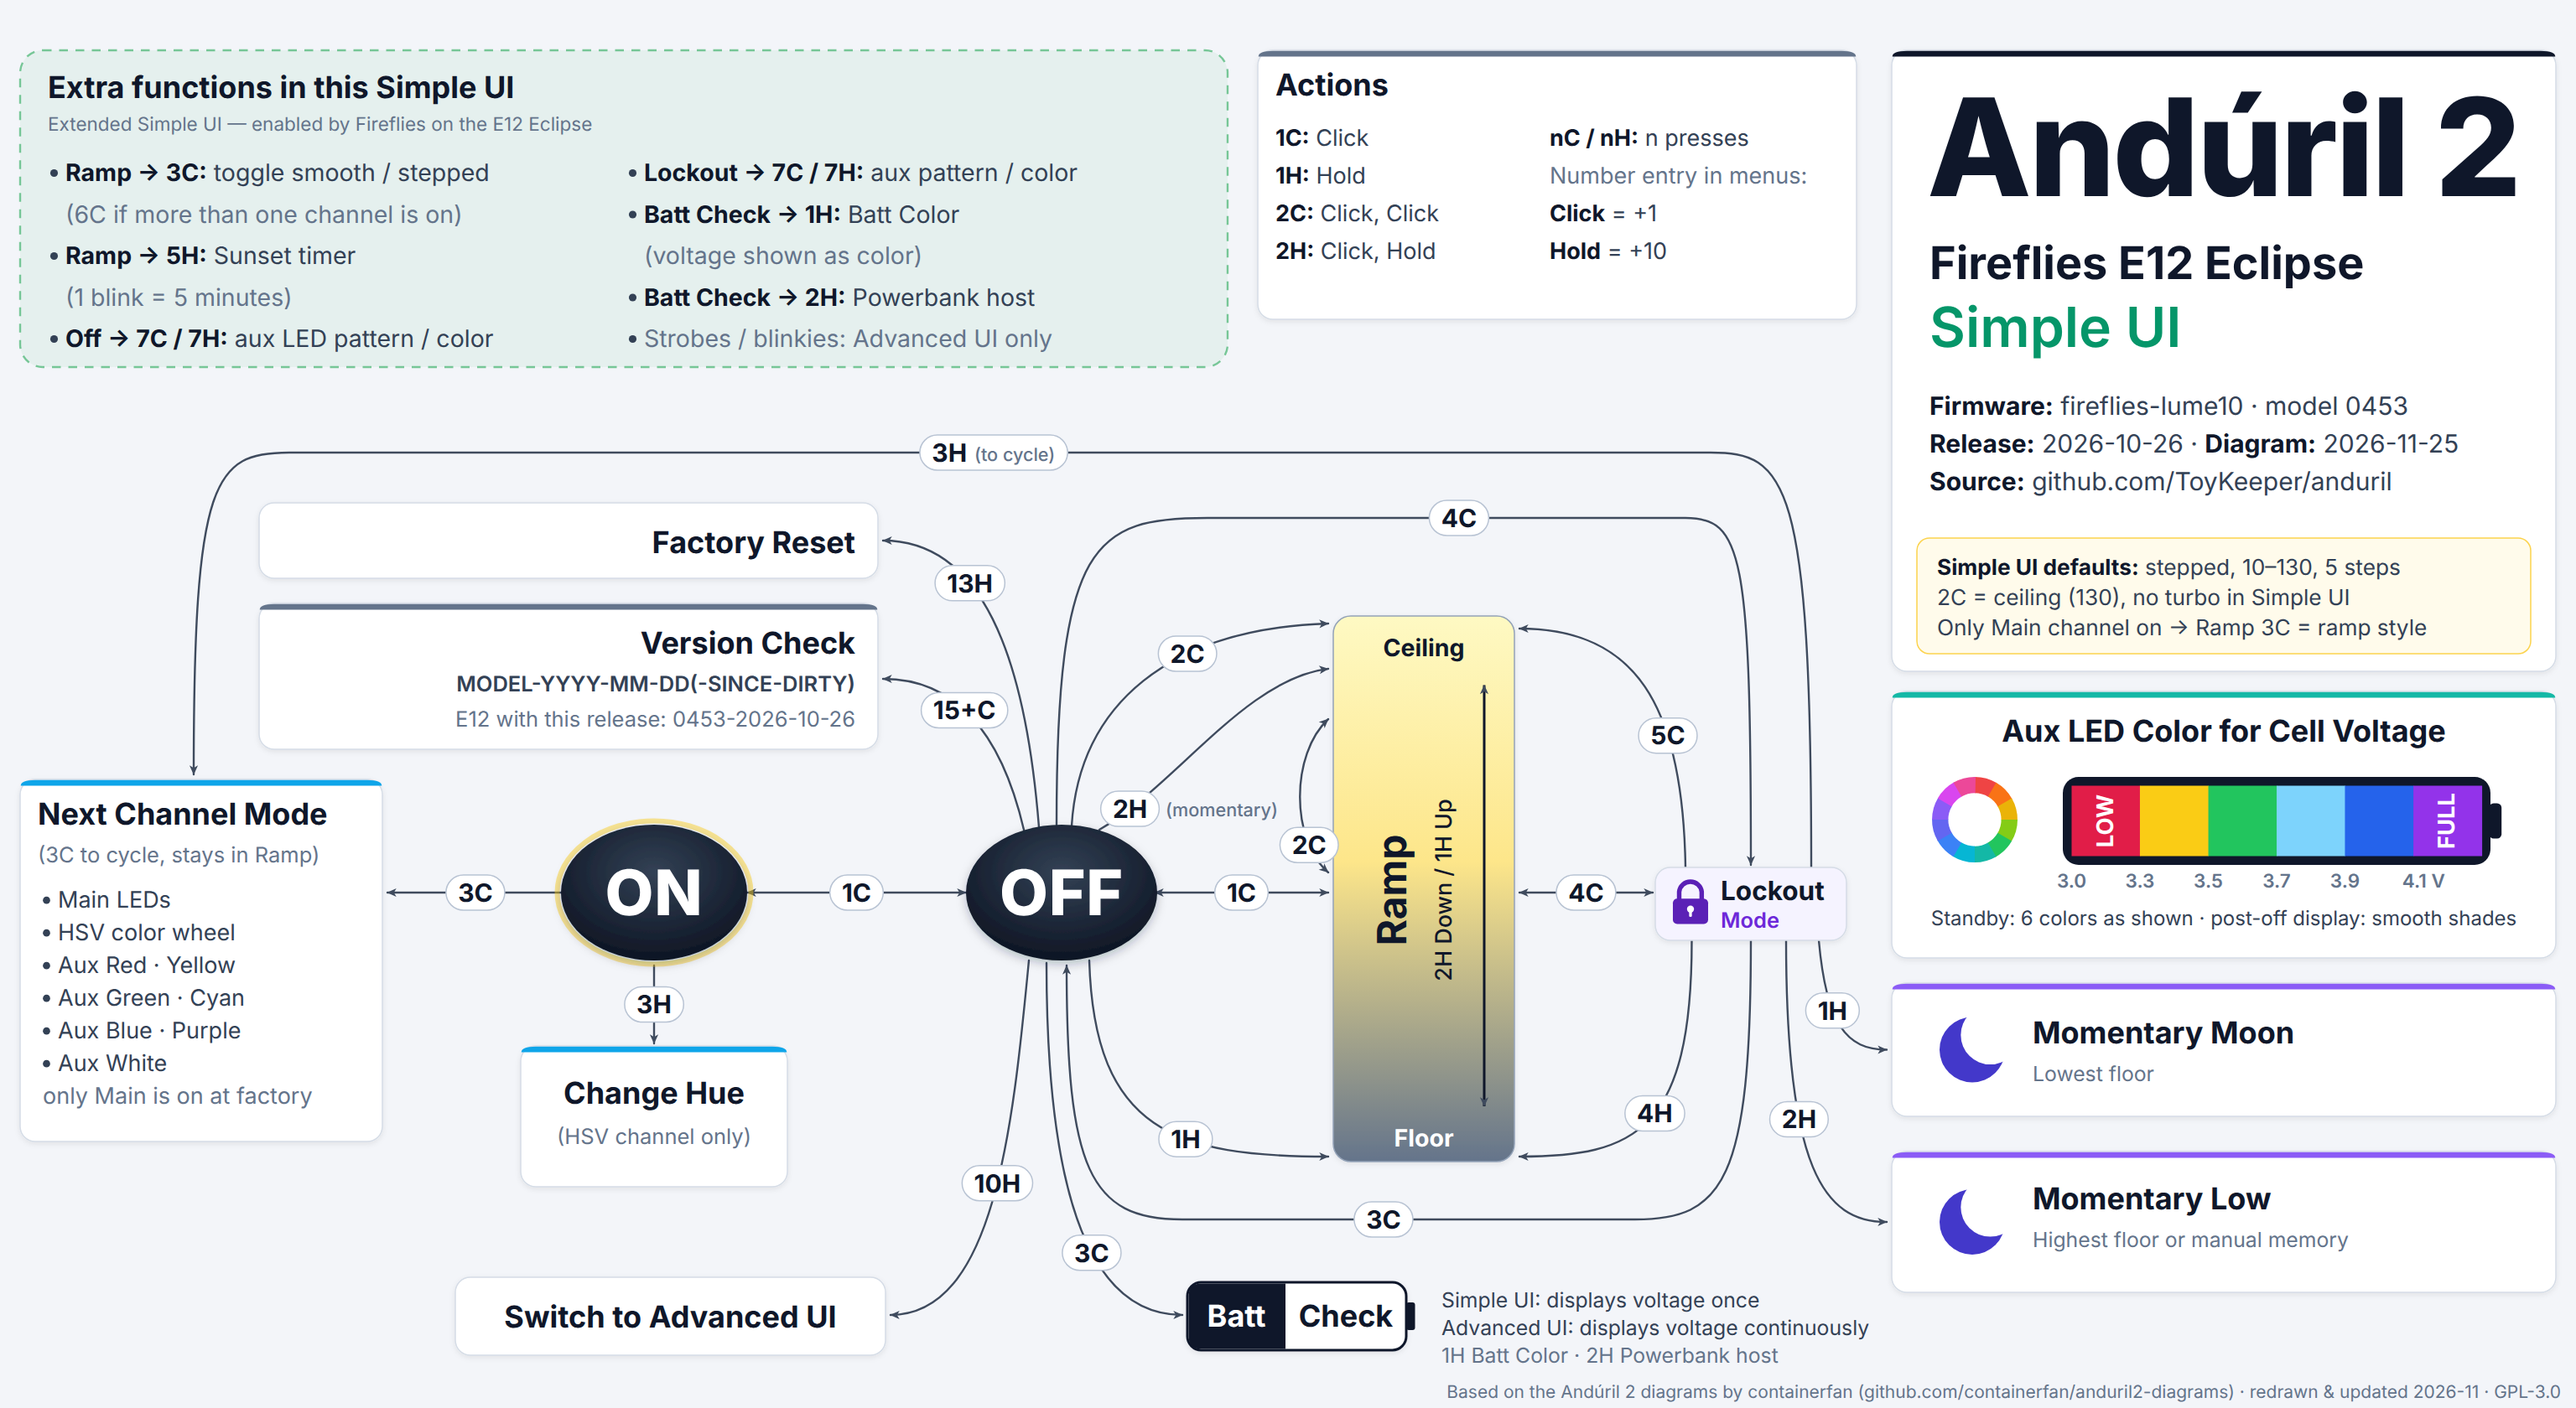
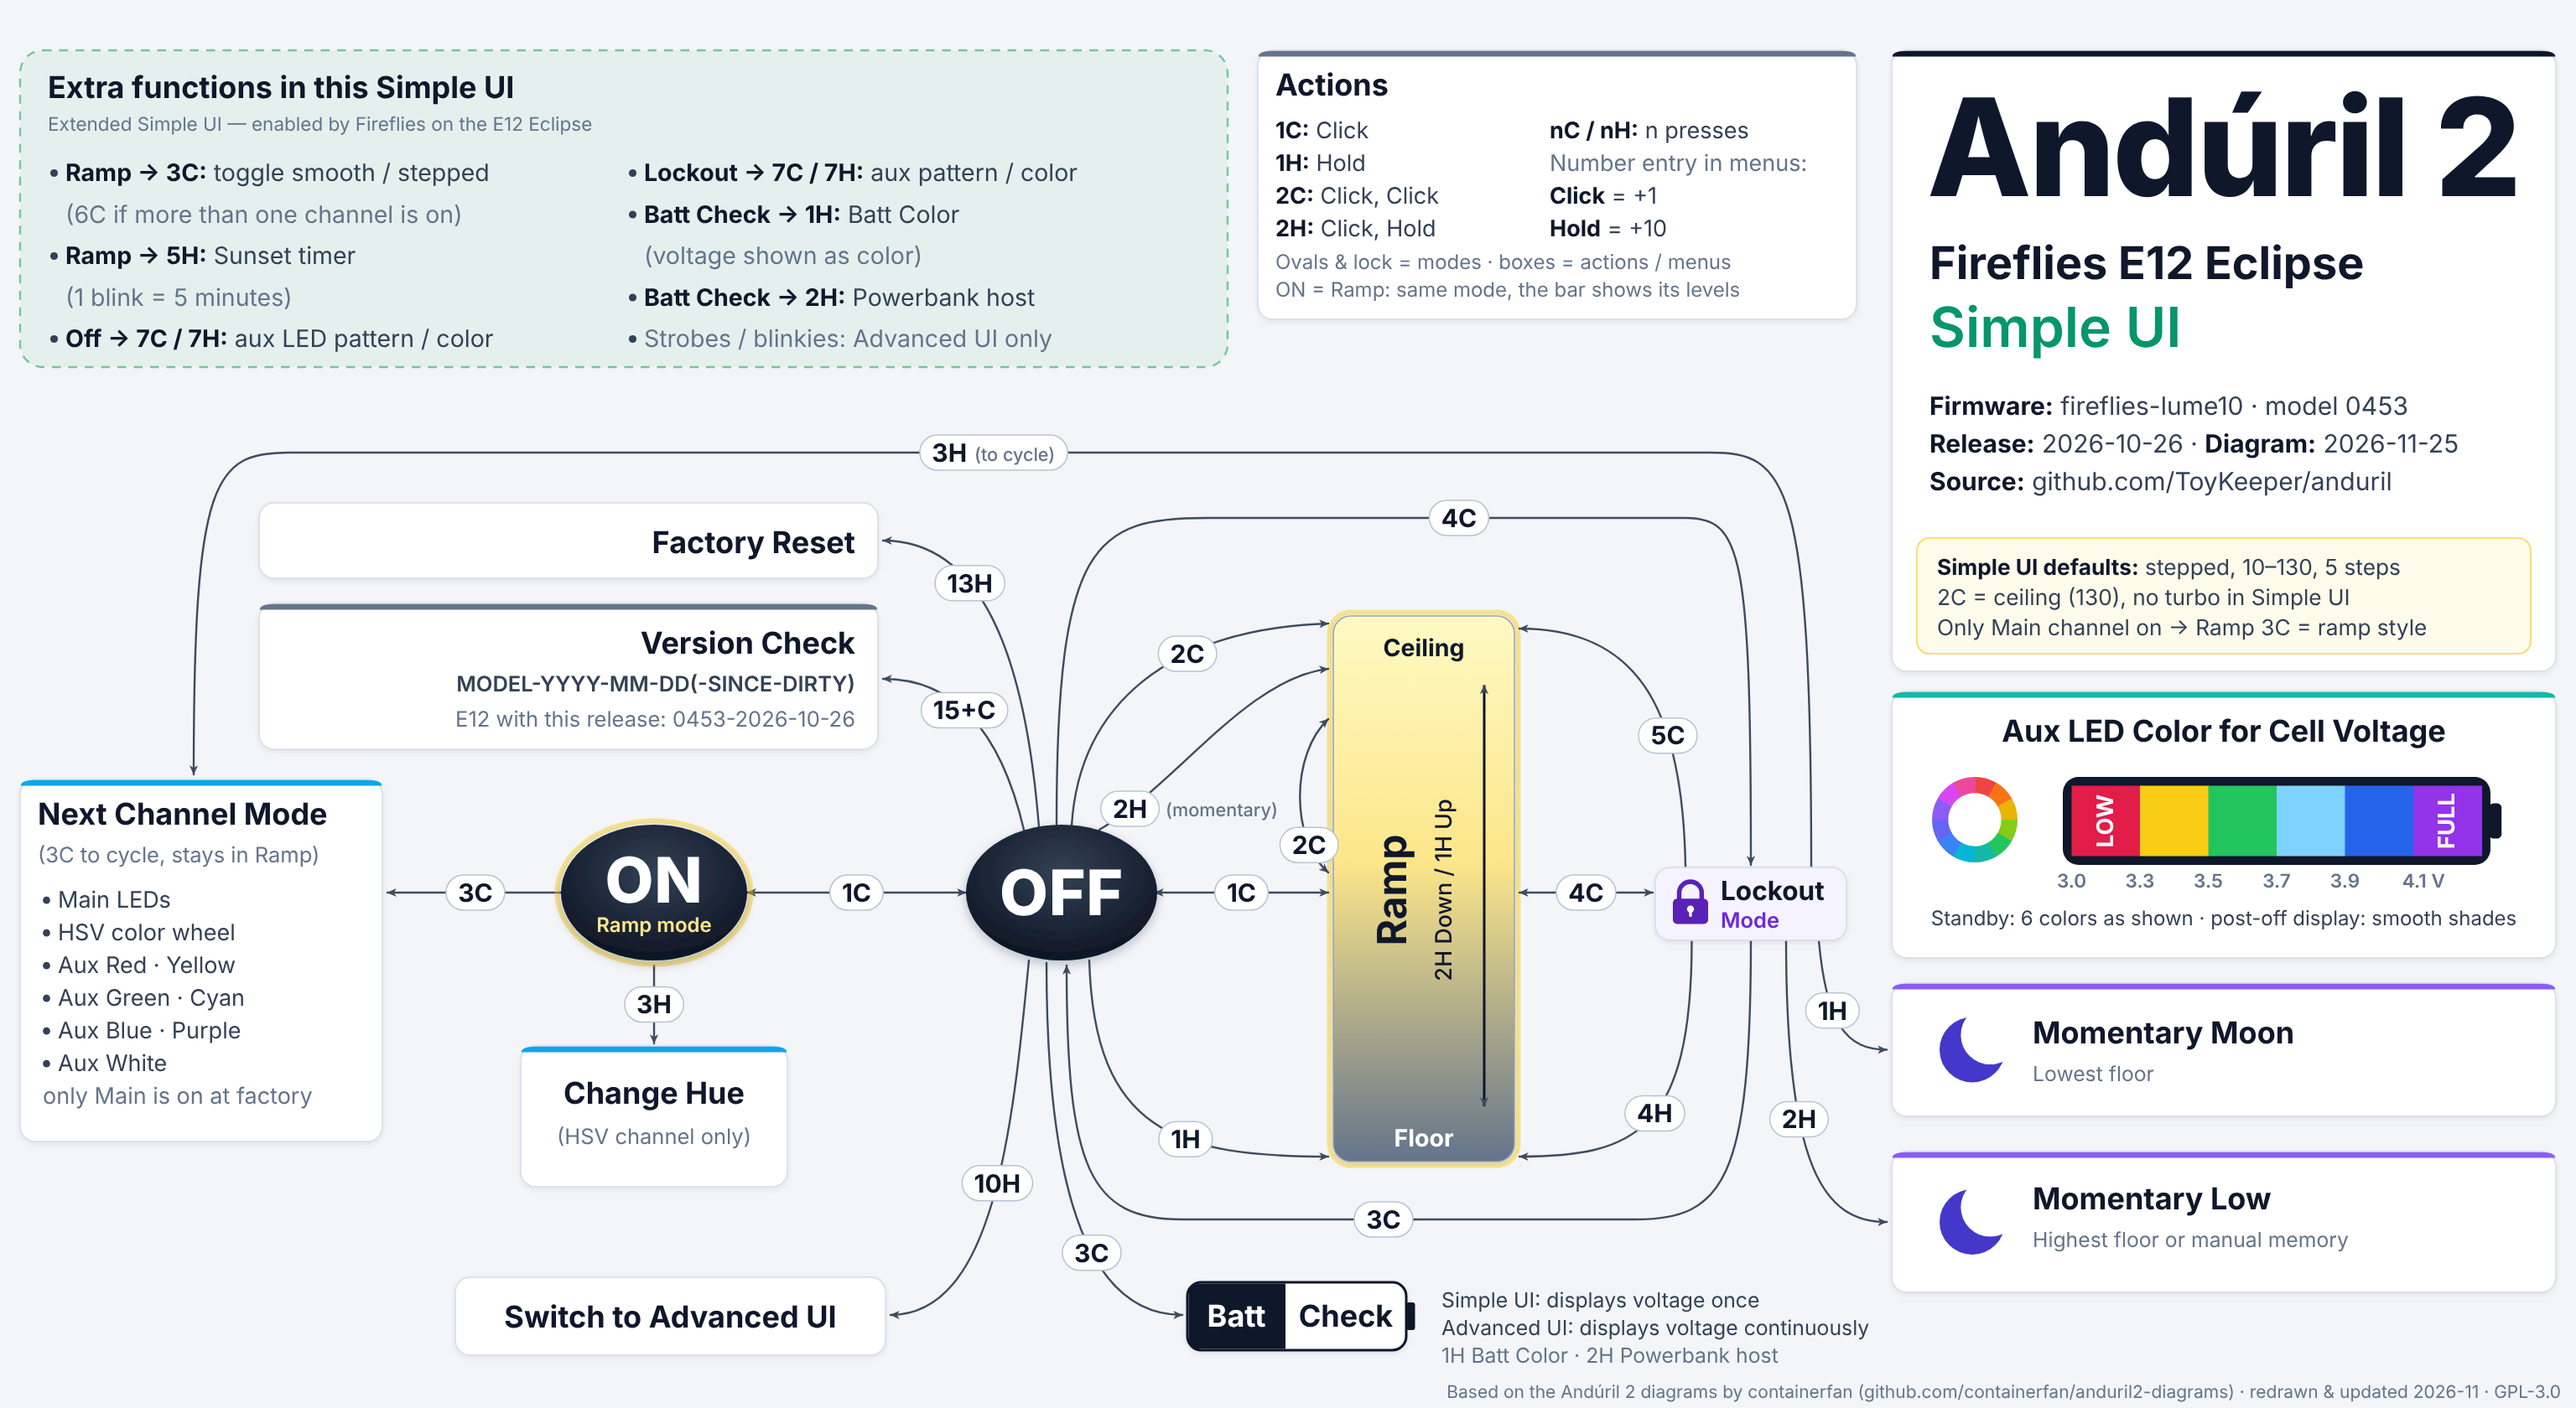
Mark ON and the Ramp bar as the same mode
In the firmware, ON and the ramp are one state (steady_state). The diagram
keeps the original split (actions on the ON node, brightness levels on the
bar), but now says so: the ON node reads "Ramp mode", the ramp bar gets the
same yellow ring as ON, and the legend explains it.

Claude-Session: https://claude.ai/code/session_01Q5nT5XEYotkTkg5FNyJ8U3

diff --git a/src/advanced.py b/src/advanced.py
@@ -190,19 +190,20 @@ S.para(1045, 229, [
 
 # ---- Actions -------------------------------------------------------------
 S.card(1305, 27, 313, 143, "Actions", "info")
-S.para(1319, 78, [
+S.para(1319, 74, [
     "**1C:** Click",
     "**1H:** Hold",
     "**2C:** Click, Click",
     "**2H:** Click, Hold",
 ], size=FS, lh=LH)
-S.para(1455, 78, [
+S.para(1455, 74, [
     "**nC / nH:** n presses",
     "__Number entry in menus:__",
     "**Click** = +1",
     "**Hold** = +10",
 ], size=FS, lh=LH)
-S.text(1319, 158, "__Ovals & lock = modes · boxes = actions / menus__", size=12)
+S.text(1319, 146, "__Ovals & lock = modes · boxes = actions / menus__", size=12)
+S.text(1319, 161, "__ON = Ramp: same mode, the bar shows its levels__", size=12)
 
 # ---- Misc Config ---------------------------------------------------------
 S.card(1305, 182, 313, 262, "Misc Config", "config", sub=None)
@@ -378,6 +379,7 @@ gid = S.nid("rb")
 S.add('<defs><linearGradient id="%s" x1="0" x2="0" y1="0" y2="1">'
       '<stop offset="0" stop-color="#FEF9C3"/><stop offset="0.45" stop-color="#FDE68A"/>'
       '<stop offset="1" stop-color="#64748B"/></linearGradient></defs>' % gid)
+S.glow_rect(1297, 618, 95, 288, 10)
 S.add('<rect class="card" x="1297" y="618" width="95" height="288" rx="10" fill="url(#%s)" stroke="#94A3B8" filter="url(#sh)"/>' % gid)
 S.add('<path d="M1297.5,658 V628 Q1297.5,618.5 1307,618.5 H1382 Q1391.5,618.5 1391.5,628 V658 Z" fill="#F97316"/>')
 S.add('<line x1="1297" y1="658" x2="1392" y2="658" stroke="#FFFFFF" stroke-width="2"/>')
@@ -588,7 +590,7 @@ S.card(1461, 800, 110, 46, None, "lock", r=10, fill="#F5F3FF", strip=False)
 S.lock(1482, 821, 20, col="#5B21B6")
 S.text(1500, 822, "Lockout", size=16, weight=700, fill=INK)
 S.text(1500, 839, "Mode", size=12.5, weight=600, fill="#6D28D9")
-S.node(679, 821, 52, 38, "ON", size=34, glow="#FACC15")
+S.node(679, 821, 52, 38, "ON", size=34, glow="#FACC15", sub="Ramp mode")
 S.node(1155, 821, 54, 38, "OFF", size=34)
 
 # ---- small footer -------------------------------------------------------

diff --git a/src/simple.py b/src/simple.py
@@ -38,18 +38,20 @@ S.para(500, 144, [
 
 # ---------------------------------------------------------------- actions
 S.card(1000, 40, 476, 214, "Actions", "info", tsize=24)
-S.para(1014, 116, [
+S.para(1014, 110, [
     "**1C:** Click",
     "**1H:** Hold",
     "**2C:** Click, Click",
     "**2H:** Click, Hold",
-], size=B, lh=30)
-S.para(1232, 116, [
+], size=B, lh=26)
+S.para(1232, 110, [
     "**nC / nH:** n presses",
     "__Number entry in menus:__",
     "**Click** = +1",
     "**Hold** = +10",
-], size=B, lh=30)
+], size=B, lh=26)
+S.text(1014, 214, "__Ovals & lock = modes · boxes = actions / menus__", size=16)
+S.text(1014, 236, "__ON = Ramp: same mode, the bar shows its levels__", size=16)
 
 # ---------------------------------------------------------------- title
 S.card(1504, 40, 528, 494, None, "#0F172A")
@@ -133,6 +135,7 @@ gid = S.nid("rb")
 S.add('<defs><linearGradient id="%s" x1="0" x2="0" y1="0" y2="1">'
       '<stop offset="0" stop-color="#FEF9C3"/><stop offset="0.45" stop-color="#FDE68A"/>'
       '<stop offset="1" stop-color="#64748B"/></linearGradient></defs>' % gid)
+S.glow_rect(1060, 490, 144, 434, 14)
 S.add('<rect class="card" x="1060" y="490" width="144" height="434" rx="14" fill="url(#%s)" stroke="#94A3B8" filter="url(#sh)"/>' % gid)
 S.text(1132, 522, "Ceiling", size=19, weight=650, fill=INK, anchor="middle")
 S.text(1132, 912, "Floor", size=19, weight=650, fill="#FFFFFF", anchor="middle")
@@ -184,7 +187,7 @@ S.card(1316, 690, 152, 58, None, "lock", r=12, fill="#F5F3FF", strip=False)
 S.lock(1344, 717, 28, col="#5B21B6")
 S.text(1368, 716, "Lockout", size=21, weight=700, fill=INK)
 S.text(1368, 738, "Mode", size=17, weight=600, fill="#6D28D9")
-S.node(520, 710, 74, 54, "ON", size=50, glow="#FACC15")
+S.node(520, 710, 74, 54, "ON", size=50, glow="#FACC15", sub="Ramp mode")
 S.node(844, 710, 76, 54, "OFF", size=50)
 
 S.text(2036, 1112, "Based on the Andúril 2 diagrams by containerfan (github.com/containerfan/anduril2-diagrams) · redrawn & updated 2026-11 · GPL-3.0",

diff --git a/src/common.py b/src/common.py
@@ -239,7 +239,7 @@ class SVG:
         for i, l in enumerate(ls):
             self.text(cx, y0 + i * size * 1.16, l, size=size, weight=600, fill=INK, anchor="middle")
 
-    def node(self, cx, cy, rx, ry, label, size=34, glow=None):
+    def node(self, cx, cy, rx, ry, label, size=34, glow=None, sub=None):
         gid = self.nid("ng")
         self.add('<defs><radialGradient id="%s" cx="50%%" cy="35%%" r="70%%">'
                  '<stop offset="0" stop-color="#334155"/><stop offset="1" stop-color="#0B1220"/></radialGradient></defs>' % gid)
@@ -247,7 +247,16 @@ class SVG:
             self.add('<ellipse cx="%.1f" cy="%.1f" rx="%.1f" ry="%.1f" fill="none" stroke="%s" stroke-width="4" stroke-opacity="0.45"/>' % (
                 cx, cy, rx + 3, ry + 3, glow))
         self.add('<ellipse class="card node" cx="%.1f" cy="%.1f" rx="%.1f" ry="%.1f" fill="url(#%s)" filter="url(#sh2)"/>' % (cx, cy, rx, ry, gid))
-        self.text(cx, cy + size * 0.36, label, size=size, weight=800, fill="#FFFFFF", anchor="middle", ls="0.5")
+        if sub:
+            self.text(cx, cy + size * 0.16, label, size=size, weight=800, fill="#FFFFFF", anchor="middle", ls="0.5")
+            self.text(cx, cy + size * 0.62, sub, size=size * 0.32, weight=600, fill="#FDE68A", anchor="middle")
+        else:
+            self.text(cx, cy + size * 0.36, label, size=size, weight=800, fill="#FFFFFF", anchor="middle", ls="0.5")
+
+    def glow_rect(self, x, y, w, h, r, glow="#FACC15"):
+        """Same yellow ring as the ON node, to show that the ramp bar is the ON state."""
+        self.add('<rect x="%.1f" y="%.1f" width="%.1f" height="%.1f" rx="%.1f" fill="none" stroke="%s" '
+                 'stroke-width="4" stroke-opacity="0.45"/>' % (x - 3, y - 3, w + 6, h + 6, r + 3, glow))
 
     # ------------------------------------------------------------ arrows
     def arrow(self, d, label=None, at=None, start=False, end=True, sub=None, lsize=14,

diff --git a/docs/firmware-review.de.md b/docs/firmware-review.de.md
@@ -39,6 +39,7 @@ Simple UI aktiv · gestufte Rampe (Simple UI: 10–130, 5 Stufen) · 2C geht im 
 ## Darstellung
 - 3H / 4H / 8H werden im Ramp-Modus gedrückt; ihre Wirkung hängt nur vom aktiven Kanal ab. Deshalb gehen sie im Diagramm direkt von ON aus (Kasten „Hold in Ramp“), nicht vom Kasten „Next Channel Mode“. 3C schaltet nur den Kanal um, die Lampe bleibt im Ramp-Modus.
 - Ovale und das Schloss sind Modi, Kästen sind Aktionen oder Menüs.
+- ON und der Ramp-Balken sind derselbe Modus (`steady_state`). Das ON-Oval trägt die Aktionen, der Balken zeigt die Helligkeitsstufen und auf welcher Stufe man von OFF/Lockout aus landet. Beide tragen deshalb denselben gelben Rahmen, und ON ist mit „Ramp mode“ beschriftet.
 
 ## Varianten der Diagramme
 - `anduril2-e12-*`: zugeschnitten auf die Fireflies E12 Eclipse (Lume10, 0453): echte Kanalliste (Main, HSV, 7 Aux-Farben), 3H = Momentary Turbo bzw. Farbton im HSV-Kanal, Werkseinstellungen, Tactical-Slots 153–156 ausgeschrieben, keine Hinweise auf Mehrkanal-/200%-Funktionen.
